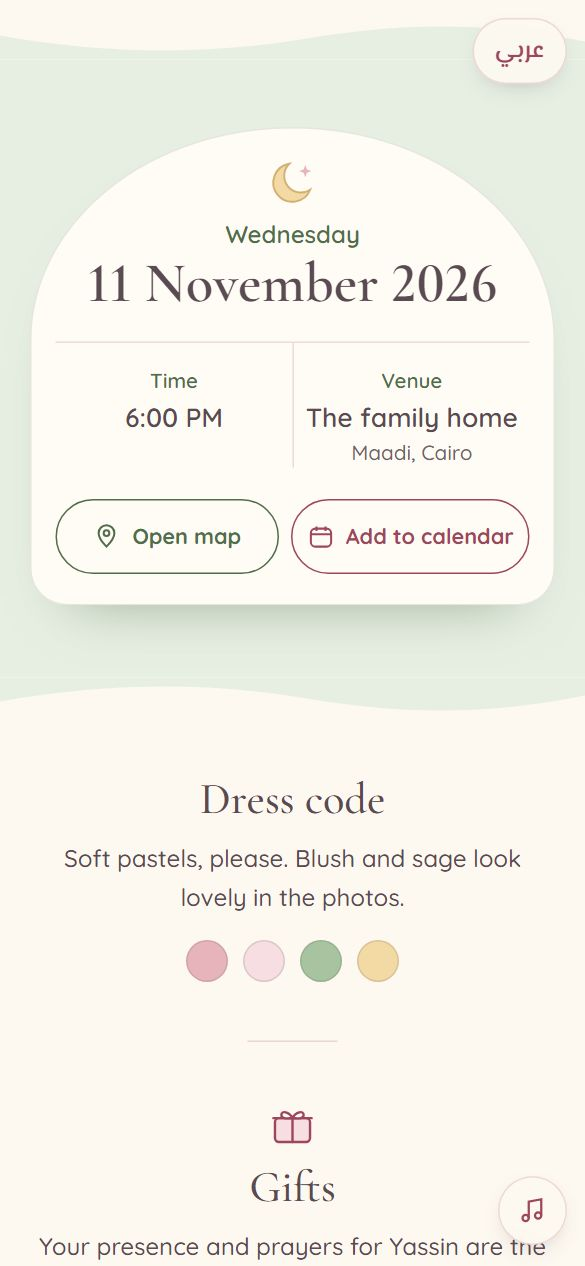
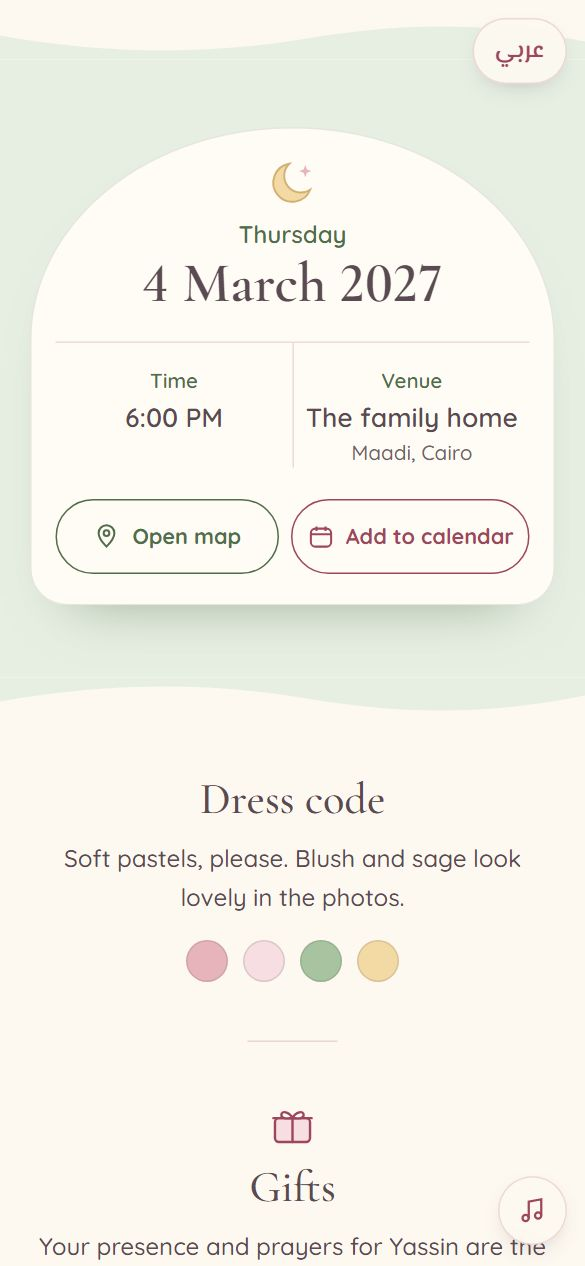
Council round 9 polish: Lotus images that stay current, step hints
From the ninth council review (Claude Opus, 9.5/10):
- Lotus's live demo counts down a week, so its product images showed a
  date that would pass within days. shots.mjs now captures Lotus with a
  date four months out; README says to recapture images periodically.
- Step 2 says one language is enough for the names; the mobile step
  rail shows bare numbers for unlabeled steps; a stale comment in Lotus
  is corrected.

Changed region(s): [[0.2462, 0.154, 0.8615, 0.2464], [0.1538, 0.2156, 0.2154, 0.2464]]

diff --git a/order.html b/order.html
@@ -77,7 +77,7 @@
       <!-- 2 · the event -->
       <section class="step" data-step="2" aria-labelledby="s2h" hidden>
         <h2 id="s2h" tabindex="-1"><span class="t-ar">تفاصيل المناسبة</span><span class="t-en">Event details</span></h2>
-        <p class="hint"><span class="t-ar">اكتبوا الأسامي زي ما تحبوا تظهر بالظبط.</span><span class="t-en">Write the names exactly as you want them to appear.</span></p>
+        <p class="hint"><span class="t-ar">اكتبوا الأسامي زي ما تحبوا تظهر بالظبط. لغة واحدة كفاية، العربي أو الإنجليزي.</span><span class="t-en">Write the names exactly as you want them to appear. One language is enough, Arabic or English.</span></p>
         <div class="fields">
           <div class="field full">
             <label for="occ"><span class="t-ar">المناسبة</span><span class="t-en">Occasion</span></label>

diff --git a/assets/store.css b/assets/store.css
@@ -441,7 +441,8 @@ html.en .prose p,html.en .prose li{line-height:1.7}
 html:not(.en) .rail li::before{content:counter(r,arabic-indic) ". "}
 .rail li.on{border-top-color:var(--pom);color:var(--kohl)}
 .rail li.now{font-weight:600}
-@media (max-width:560px){.rail li > span{display:none}.rail li.now > span{display:inline}}
+@media (max-width:560px){.rail li > span{display:none}.rail li.now > span{display:inline}
+  .rail li:not(.now)::before{content:counter(r)}html:not(.en) .rail li:not(.now)::before{content:counter(r,arabic-indic)}}
 .step[hidden]{display:none}
 .step h2{font-size:clamp(26px,2.6vw,32px);margin-bottom:6px}
 .step > .hint{margin:0 0 22px;color:var(--kohl-2);font-size:15px}

diff --git a/demos/lotus.html b/demos/lotus.html
@@ -810,7 +810,7 @@ html.en .intro-hint{font-weight:700}
 
 <script>
 /* Rolling demo date: without a real order date (?d=) the demo always counts
-   down to ~90 days from today, so the countdown never reads as expired. */
+   down to a week from today (a sebou3 is a week after the birth), so it never reads as expired. */
 (function () {
   try {
     var p = new URLSearchParams(window.__D3WA__ || location.search);

diff --git a/README.md b/README.md
@@ -36,7 +36,7 @@ node scripts/shots.mjs henna    # one design
 node scripts/shots.mjs --og     # WhatsApp/social share cards into assets/og/
 ```
 
-It drives Chrome or Edge headless (set `CHROME=/path` to choose). Templates mark their gallery views with `data-shot="details"` and `data-shot="rsvp"`. Rerun after editing a template, then rerun the build.
+It drives Chrome or Edge headless (set `CHROME=/path` to choose). Templates mark their gallery views with `data-shot="details"` and `data-shot="rsvp"`. Rerun after editing a template, then rerun the build. The images show a demo date about three months out from the day they were taken, so recapture them every couple of months.
 
 ## Orders and payment
 
